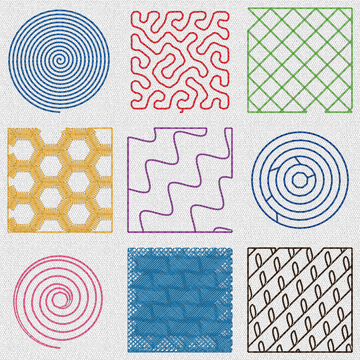
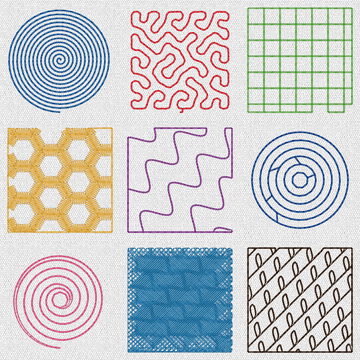
Kit region-sew-types-2 regenerated with its net on the axes; release-note counts; clippy (#1054, #1043)

Changed region(s): [[0.6722, 0.0, 0.9778, 0.3361]]

diff --git a/crates/openstitch-design/src/regions.rs b/crates/openstitch-design/src/regions.rs
@@ -416,12 +416,12 @@ pub fn generate(
             // reference point. With a reference point the net starts at the point itself.
             let mut shift = v2(0.0, 0.0);
             let mut axis = r.clone();
-            if r.reference.is_none() {
-                if let Some(b) = Rect::enclosing(closed.iter().flat_map(|c| c.outline_points())) {
-                    let inset = pw.min(spacing * 0.8) / 2.0;
-                    shift = back.apply(v2(b.min_x, b.min_y)) + v2(inset, inset);
-                    axis.reference = Some(v2(0.0, 0.0));
-                }
+            if r.reference.is_none()
+                && let Some(b) = Rect::enclosing(closed.iter().flat_map(|c| c.outline_points()))
+            {
+                let inset = pw.min(spacing * 0.8) / 2.0;
+                shift = back.apply(v2(b.min_x, b.min_y)) + v2(inset, inset);
+                axis.reference = Some(v2(0.0, 0.0));
             }
             let to_origin = crate::geometry::Transform::translation(-shift.x, -shift.y);
             let turned = |cs: &[Contour]| -> Vec<Contour> {

diff --git a/docs/releases/v0.1.0-alpha.14.md b/docs/releases/v0.1.0-alpha.14.md
@@ -60,7 +60,8 @@ These defaults changed. Each item says how to get the old behaviour back where t
     11.50 does (a 45° fill switched over used to keep 45°, so its net sewed diagonally). An
     angle given with the switch is kept. The ready-to-sew kit's `fills/region-sew-types-2.pes`
     and the `region-types` example make their net this way, so their net now sews on the page
-    axes: KIT_COUNTS.
+    axes: the kit file 4,554 → 4,532 stitches, the example's honeycomb net 16,070 → 16,068 for
+    the whole design.
   - **Not affected:** nets saved by older versions keep their Direction, since they really
     sewed at it; the Cutwork wizard's net keeps the direction set in the wizard.
   - **Old behaviour:** set the net's Direction to 45 after the switch.

diff --git a/examples/sew/README.md b/examples/sew/README.md
@@ -352,7 +352,7 @@ Threads, in sewing order: 405 Blue, 800 Red, 509 Leaf Green, 208 Orange, 620 Mag
 
 #### Region sew types (2 of 2)
 
-[`fills/region-sew-types-2.pes`](fills/region-sew-types-2.pes) · 100 × 100 mm hoop · 86 × 86 mm · 4,554 stitches · 9 trims · about 6.2 min
+[`fills/region-sew-types-2.pes`](fills/region-sew-types-2.pes) · 100 × 100 mm hoop · 86 × 86 mm · 4,532 stitches · 9 trims · about 6.1 min
 
 Flexible spiral, stippling, net fill (square), zigzag net fill (honeycomb), decorative fill (waves), contour fill as rings and as a double spiral (beyond PE-DESIGN), programmable fill (bricks) with base sewing, motif fill (leaf).
 
